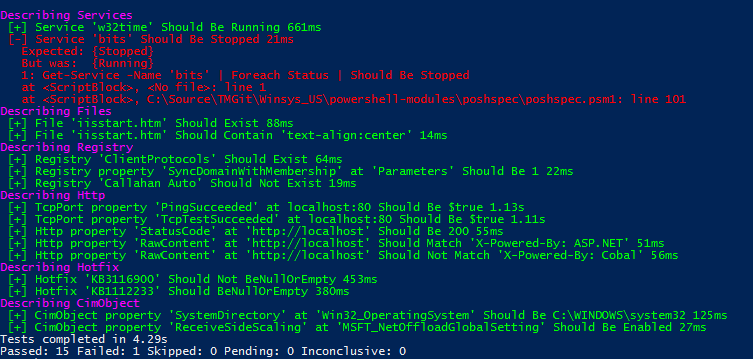
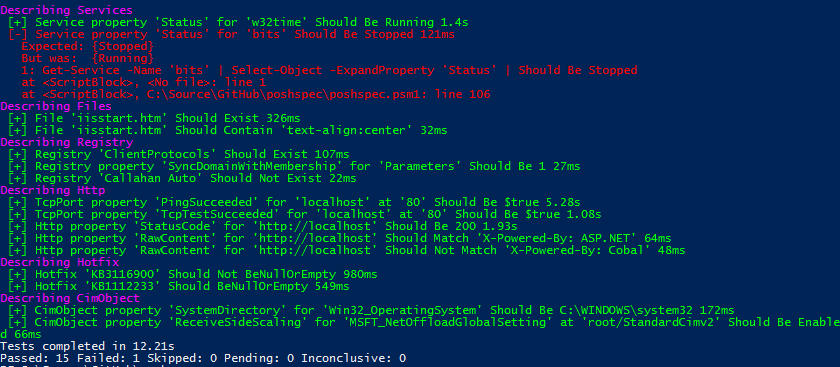
Updated examples

Changed region(s): [[0.0, 0.0, 1.0, 1.0], [0.8552, 0.2451, 0.9163, 0.3064]]

diff --git a/README.md b/README.md
@@ -4,8 +4,8 @@ An infrastructure testing DSL running in Pester. The goal is to expand the Peste
 ## Example 
 ```powershell
 Describe 'Services' {    
-    Service w32time { Should Be Running }
-    Service bits { Should Be Stopped }
+    Service w32time Status { Should Be Running }
+    Service bits Status { Should Be Stopped }
 }
 
 Describe 'Files' {
@@ -15,7 +15,7 @@ Describe 'Files' {
 
 Describe 'Registry' {
     Registry HKLM:\SOFTWARE\Microsoft\Rpc\ClientProtocols { Should Exist }
-    Registry HKLM:\SYSTEM\CurrentControlSet\Services\Tcpip\Parameters\ "NV Domain" { Should Be mybiz.local  }
+    Registry HKLM:\SYSTEM\CurrentControlSet\Services\Tcpip\Parameters\ "SyncDomainWithMembership" { Should Be 1  }
     Registry 'HKLM:\SOFTWARE\Callahan Auto\' { Should Not Exist }
 }
 
@@ -58,11 +58,7 @@ _Verify a Uri returns a 200 StatusCode and optionally validate RawContent._
 
 _Verify a registry key exists and optionally validate the value of a given property._
 
-`NotRegistry [[-Key] <string>]`
-
-_Verify a registry key does not exist._
-
-`Service [-Name] <string> [-Should] <scriptblock>`
+`Service [-Name] <String> [-Property] <String> [-Should] <ScriptBlock>`
 
 _Verify a service is in a given state. Default is "Running"._
 
